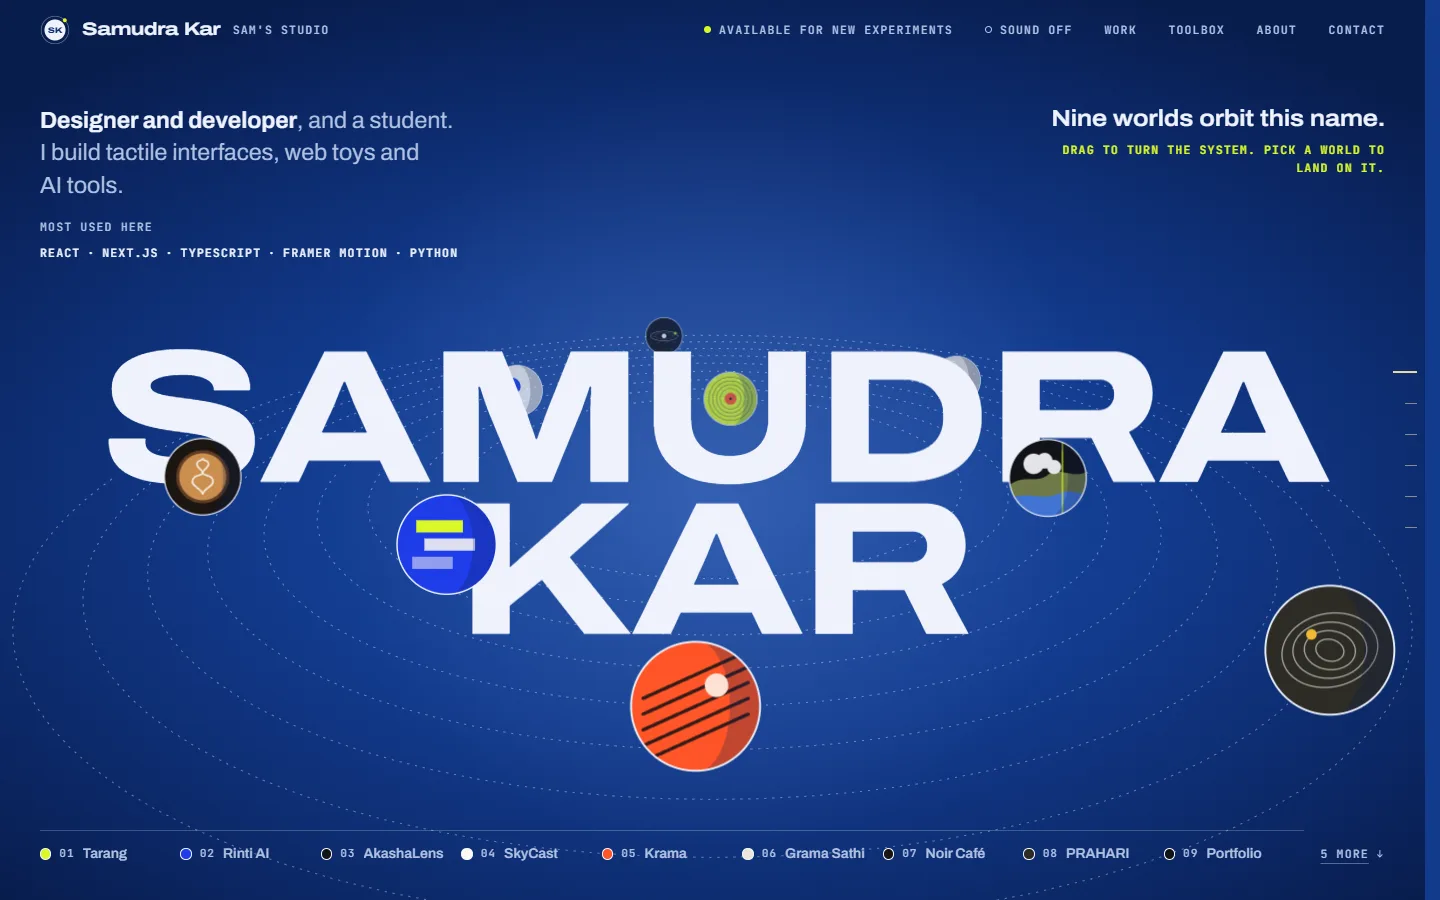
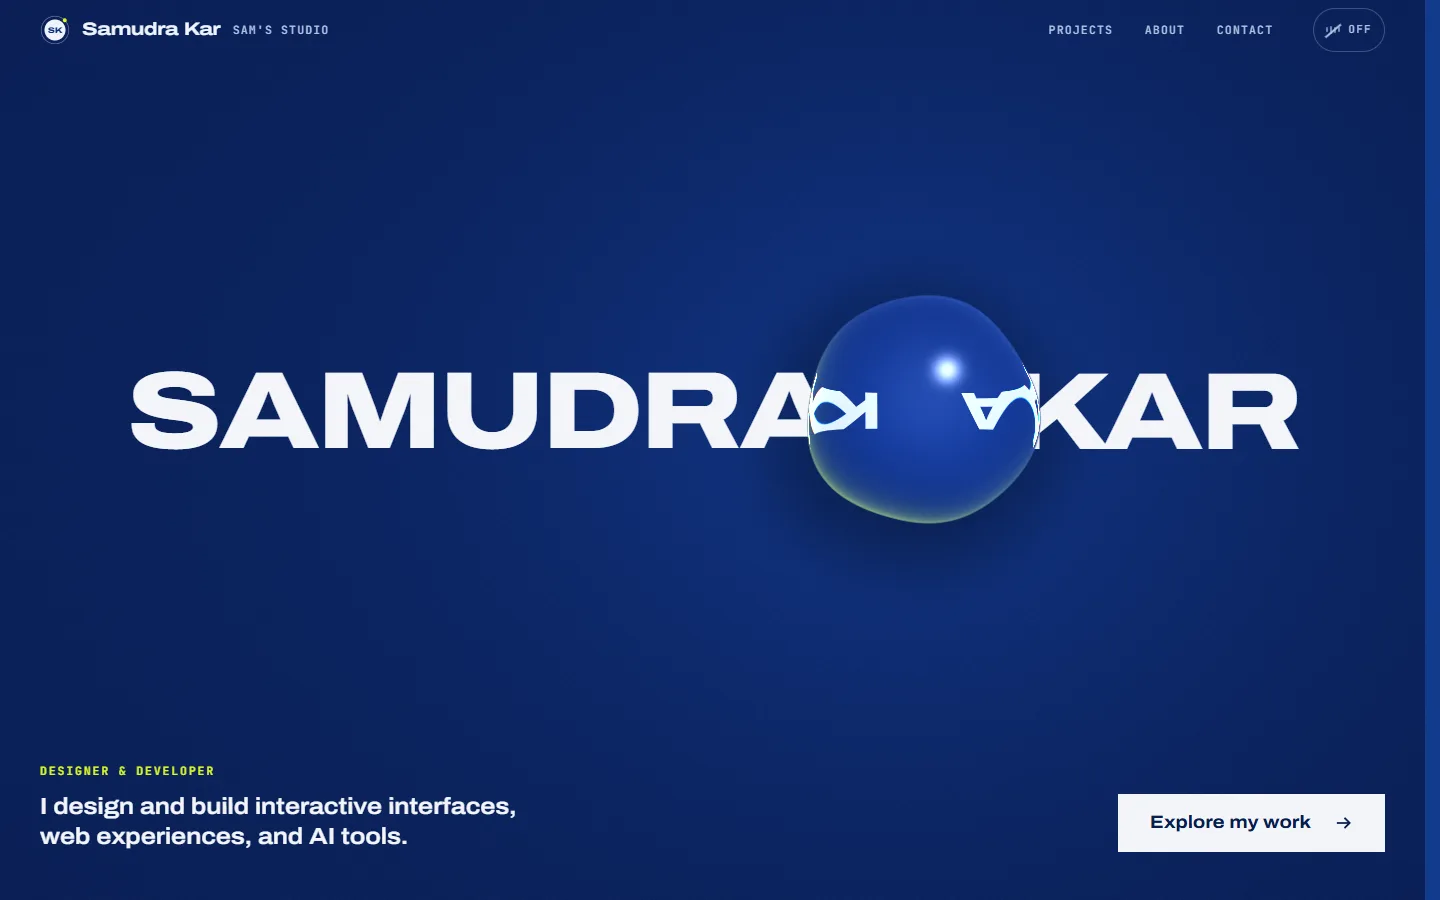
fix(cursor): visible cursor in the viewing room, labels stay on screen
- The projects viewing room is a modal <dialog> in the top layer, above
  the custom arrow, so with the system cursor hidden there was no cursor
  at all; the arrow now steps aside and the real cursor returns
- The cursor readout flips to the other side near the right and bottom
  edges (it was cut off on the new sound control)
- The homepage drop shows a DRAG readout
- Projects: closing the viewing room right after opening it could name
  two elements ex-focus (the router applied the open's URL write late and
  the URL sync reopened it); follow only back/forward, settle on a timer
- README: new homepage, tour and screenshots; cursor section updated

diff --git a/src/pages/Projects.tsx b/src/pages/Projects.tsx
@@ -44,14 +44,19 @@ export default function Projects() {
   const [sel, setSel] = useState<string | null>(urlSel);
   const [room, setRoomState] = useState<Kind | null>(kind);
   const [viewState, setViewState] = useState(view);
-  // when the URL changes from outside (back/forward, a pasted link), follow it
-  const [seen, setSeen] = useState({ urlSel, kind, view });
-  if (seen.urlSel !== urlSel || seen.kind !== kind || seen.view !== view) {
-    setSeen({ urlSel, kind, view });
-    setSel(urlSel);
-    setRoomState(kind);
-    setViewState(view);
-  }
+  // The page writes its own state into the URL, and the router applies those writes later, at low
+  // priority, so the URL is not a reliable mirror while a transition runs. A shared link mounts the
+  // page fresh (and is read above); the only other outside change is back/forward, so follow that.
+  useEffect(() => {
+    const onPop = () => {
+      const q = new URLSearchParams(window.location.search);
+      setSel(q.get('p'));
+      setRoomState((q.get('room') as Kind | null) ?? null);
+      setViewState(q.get('view') === 'index' ? 'index' : 'wall');
+    };
+    window.addEventListener('popstate', onPop);
+    return () => window.removeEventListener('popstate', onPop);
+  }, []);
   const [live, setLive] = useState<string | null>(null);
   const dlgRef = useRef<HTMLDialogElement>(null);
 
@@ -110,14 +115,19 @@ export default function Projects() {
       const art = artOf(slug);
       if (art) art.style.viewTransitionName = 'ex-focus';
     });
+    let settled = false;
     const settle = () => {
+      if (settled) return;
+      settled = true;
       const art = artOf(slug);
       if (art) art.style.viewTransitionName = '';
       // after the dialog has handed focus back (to whatever opened it first), put it on the print you were last looking at
       requestAnimationFrame(() => document.querySelector<HTMLElement>(`[data-tile="${slug}"]`)?.focus({ preventScroll: true }));
     };
-    if (vt) vt.finished.then(settle, settle);
-    else settle();
+    if (vt) {
+      vt.finished.then(settle, settle);
+      window.setTimeout(settle, 900); // never let a stalled transition hold the print's name or block the next open
+    } else settle();
     patch((n) => n.delete('p'));
   };
   const step = (dir: 1 | -1) => {

diff --git a/src/components/core/Cursor.tsx b/src/components/core/Cursor.tsx
@@ -47,6 +47,11 @@ function CursorTool() {
       if (e.pointerType === 'touch') return;
       html.classList.add('has-cursor');
       root.dataset.hidden = 'false';
+      // near the right or bottom edge the readout moves to the other side of the tip, so it is never cut off
+      const fx = e.clientX > window.innerWidth - 150 ? 'true' : 'false';
+      const fy = e.clientY > window.innerHeight - 64 ? 'true' : 'false';
+      if (root.dataset.flipX !== fx) root.dataset.flipX = fx;
+      if (root.dataset.flipY !== fy) root.dataset.flipY = fy;
     };
     const onOver = (e: PointerEvent) => {
       const target = e.target as Element | null;
@@ -77,7 +82,7 @@ function CursorTool() {
   }, []);
 
   return (
-    <div ref={rootRef} className="cursor" data-kind="default" data-hidden="true" data-down="false" aria-hidden="true">
+    <div ref={rootRef} className="cursor" data-kind="default" data-hidden="true" data-down="false" data-flip-x="false" data-flip-y="false" aria-hidden="true">
       <motion.div className="cursor-pos" style={{ x: pointer.x, y: pointer.y }}>
         <svg className="cursor-arrow" width="26" height="30" viewBox="0 0 26 30">
           <path className="cursor-shadow" d="M2 2 L2 24 L8 18.5 L12.5 28 L17 26 L12.6 16.8 L21 16.5 Z" />

diff --git a/src/components/core/cursor.css b/src/components/core/cursor.css
@@ -25,6 +25,14 @@
 }
 .cursor-label:not(:empty) { opacity: 1; transform: none; }
 .cursor[data-kind='cta'] .cursor-label { background: var(--lime); color: var(--cy-950); border-color: var(--lime); }
+.cursor[data-flip-x='true'] .cursor-label { left: auto; right: 6px; transform-origin: 100% 0; }
+.cursor[data-flip-y='true'] .cursor-label { top: auto; bottom: 6px; }
+
+/* a modal <dialog> sits in the browser's top layer, above anything a page can draw (including this arrow),
+   so while one is open the real system cursor comes back, the same way it does for Kage */
+html.has-cursor:has(dialog[open]) * { cursor: auto !important; }
+html.has-cursor:has(dialog[open]) :is(a[href], button, [role='button'], summary, label) { cursor: pointer !important; }
+html:has(dialog[open]) .cursor-pos { display: none; }
 
 @media (prefers-reduced-motion: reduce) {
   .cursor-arrow, .cursor-label { transition: none; }

diff --git a/src/components/home/GlassHero.tsx b/src/components/home/GlassHero.tsx
@@ -411,7 +411,7 @@ export default function GlassHero() {
 
   const [first, last] = config.name.split(' ');
   return (
-    <section ref={rootRef} className="gh" data-gl={gl} aria-labelledby="gh-name">
+    <section ref={rootRef} className="gh" data-gl={gl} aria-labelledby="gh-name" data-cursor={gl === 'on' ? 'drag' : undefined} data-cursor-label="DRAG">
       <div ref={wrapRef} className="gh-canvas" aria-hidden="true" />
       <div className="gh-stage">
         <h1 id="gh-name" ref={nameRef} className="gh-name">

diff --git a/README.md b/README.md
@@ -1,19 +1,19 @@
 <div align="center">
 
-<img src="docs/screenshots/hero.webp" alt="The homepage: SAMUDRA KAR at the centre of nine tilted rings, with project planets passing in front of and behind the name" width="100%" />
+<img src="docs/screenshots/hero.webp" alt="The homepage: SAMUDRA KAR on deep blue, with one drop of liquid glass resting between the words and showing the name upside down" width="100%" />
 
 <br />
 <br />
 
 # Samudra Kar, portfolio
 
-**A small universe around a name: nine projects orbit SAMUDRA KAR, and each one is its own world you can land on.**
+**One name, one drop of glass: a single-screen homepage, then an exhibition of the real work.**
 
-Nine interactive project worlds · five more projects drawn as bodies on the same instrument · a toolbox built from the projects themselves · a hidden door
+A WebGL glass drop you can pick up · 16 projects as live specimens · interactive case-study worlds · an optional, generated soundtrack · a hidden door
 
 <br />
 
-[**Live site**](https://sam-sportfolio.vercel.app) &nbsp;·&nbsp; [The tour](#the-tour) &nbsp;·&nbsp; [The worlds](#the-worlds) &nbsp;·&nbsp; [How it works](#how-it-works) &nbsp;·&nbsp; [Run it](#run-it-locally) &nbsp;·&nbsp; [Design system](#design-system)
+[**Live site**](https://sam-sportfolio.vercel.app) &nbsp;·&nbsp; [The tour](#the-tour) &nbsp;·&nbsp; [Pages](#pages) &nbsp;·&nbsp; [Sound](#sound) &nbsp;·&nbsp; [Run it](#run-it-locally) &nbsp;·&nbsp; [Design system](#design-system)
 
 <br />
 
@@ -31,76 +31,43 @@ Nine interactive project worlds · five more projects drawn as bodies on the sam
 
 ## What this is
 
-The portfolio is one working instrument: a **cyanotype orrery** with the studio (the SK monogram) at the centre and the projects on its rings. Cyanotype is the old sun-print process: Prussian blue where light hit the paper, white where it did not. The site is printed on the blue; the quiet passages (About, the case-study write-ups) sit on the white.
-
-The rules: white hairline linework, dashed for available and solid for committed, every project an enamel disc in its own colour, one typeface (Archivo) across its width axis, and hierarchy carried by type size, not by boxes. Nothing moves just because it can.
+The portfolio of Samudra Kar, a designer and developer who builds interactive interfaces, web experiences and AI tools. The look is cyanotype: Prussian blue, paper white, and one acid-lime signal colour. One typeface (Archivo) across its width axis carries the hierarchy, and every effect has to earn its place.
 
 ## The tour
 
-### 1. The homepage: a small universe around the name
+### 1. Home: one drop of glass on one name
 
-The first screen is the experience, not a header. **SAMUDRA KAR** sits at the centre of a system of nine tilted rings drawn in perspective: the near half of every ring passes *in front of* the name and the far half behind it, so the identity sits inside the scene. Each featured project is a planet whose surface is drawn from what the project is (record grooves for Tarang, stacked sources for Rinti AI, terrain under cloud for AkashaLens, a latte rosetta for Noir Café, the contours of a mine for PRAHARI, and so on).
-
-- **It is alive but calm.** The rings turn slowly, inner worlds faster than outer ones (angular speed falls off with ring size). A fast scroll makes them race briefly.
-- **Drag anywhere to turn the system**, with momentum when you let go. A click on empty space returns to the overview.
-- **Pick a world** (click its planet, or use the rail of named buttons along the bottom). The planet flies out of its orbit to the focus slot, the name and the other worlds recede, and a panel opens with its category, an accurate description, the stack and its real links: enter its chapter, the case study, GitHub, and the live demo where one is verified. Previous and Next walk the worlds; Escape or "All worlds" closes.
-- **Keyboard:** the rail is ordinary buttons; arrow keys walk the worlds, Escape closes.
-- **Entrance:** once per session the name prints in and the system forms out of the centre in under a second. Any key, wheel or touch finishes it at once; reduced motion skips it.
-- **Scrolling on** flattens the rings toward edge-on as the hero leaves, and the index of worlds follows. Scrolling is never hijacked.
-
-On phones the same universe is recomposed for a thumb: the scene sits on top, the worlds become a swipeable row of named buttons, and the open world's panel follows below, so nothing depends on hitting a small planet.
+One screen, no scrolling. The name is set large on deep blue; a single drop of liquid glass rests on it and really refracts it, the way a drop of water does (the name appears inside it widened and upside down). Hover and it leans toward you; press and drag, with a mouse or a finger, to carry it; let go and it springs home with a damped wobble. Under it: *Designer & Developer*, one sentence, and **Explore my work**.
 
 <table>
   <tr>
-    <td width="70%"><img src="docs/screenshots/hero-outro.webp" alt="A world in focus: SkyCast's planet in the focus slot with its panel of description, stack and links" /></td>
-    <td width="30%"><img src="docs/screenshots/mobile-hero.webp" alt="The homepage on a phone: the universe on top, a row of world buttons below" /></td>
-  </tr>
-  <tr>
-    <td><sub>A world in focus: its planet takes the slot, its panel opens with the real links.</sub></td>
-    <td><sub>On a phone.</sub></td>
+    <td width="68%"><img src="docs/screenshots/hero.webp" alt="Homepage on desktop" /></td>
+    <td width="32%"><img src="docs/screenshots/mobile-hero.webp" alt="Homepage on a phone: the name stacked, the drop between the lines" /></td>
   </tr>
 </table>
 
-### 2. Worlds: an index, then nine chapters that cover each other
+### 2. Projects: the exhibition
 
-The index lists the featured worlds; hovering a row floods it with that world's colour and turns the planet plate beside it. Then each project is a pinned, full-height chapter that slides up over the previous one, opening with its own mask. A small engraving of the orrery in the corner shows which ring you are on.
+All 16 projects that earned a place (see `docs/github-project-audit.md`) hang as live SVG specimens drawn from what each one does. Filter by kind, switch between the wall and a fast index, and pick a print to lift it into a full-screen viewing room with its real links. The filter and the open print live in the URL, so links can be shared.
 
 <table>
   <tr>
-    <td width="50%"><img src="docs/screenshots/work-index.webp" alt="The index of worlds with Tarang's lime planet plate" /></td>
-    <td width="50%"><img src="docs/screenshots/chapter.webp" alt="The Tarang chapter: title, facts and the interactive scene" /></td>
+    <td width="50%"><img src="docs/screenshots/projects.webp" alt="The projects wall" /></td>
+    <td width="50%"><img src="docs/screenshots/projects-room.webp" alt="The viewing room for Noir Café" /></td>
   </tr>
 </table>
 
-### 3. More work: everything else on GitHub that earned a place
+### 3. Case studies and worlds
 
-Five more projects (hackathon builds, an interface exploration, a live café site, team coursework) and two earlier sites. They have no interactive world yet, so each is drawn as a body on its own ring: a plate from the same instrument, never a fake screenshot. Team work always names the team and his role. The full repository audit behind this list is in [`docs/github-project-audit.md`](docs/github-project-audit.md).
+The nine featured projects have case-study pages (`/work/:slug`), each with its own interactive world.
 
-<img src="docs/screenshots/more-work.webp" alt="More work: Niriksh AI and The Waffle House as lead entries with drawn plates" width="100%" />
+### 4. About and Contact
 
-### 4. Toolbox: organised, and it can't lie
+**About** is a contact sheet: seven frames from one roll with a loupe, what is on the bench now, and the toolbox. **Contact** is the last print, at night: Instagram, GitHub and LinkedIn as tall rows over a WebGL field.
 
-Every tool in every project's `tech` list, filed into six groups (Languages, Interface, Motion & 3D, Backend & data, AI & vision, Hardware) and ordered by use. Beside each tool sits one enamel disc per project that uses it, so "how much" is the real list of projects, not a skill bar. It works both ways: point at a tool to light up its projects, or at a project to light up the tools it was built with; click to pin. Anything a project lists that no group names lands in "Other" instead of disappearing. It is computed from the project data, so it can only show what the work actually used.
+### 5. Kage
 
-<img src="docs/screenshots/toolbox.webp" alt="The Toolbox: six groups of tools, each with a row of project discs, and the project legend below" width="100%" />
-
-### 5. About: a desk on the white sheet
-
-On desktop the stage pins and the objects land one by one as you scroll: an ID card printed in cyanotype blue, index cards for each facet (drag them anywhere), a sun print, a cassette (Now Playing), a lime note (Currently Building) and the studio seal. Somewhere on the desk is a door.
-
-<img src="docs/screenshots/about.webp" alt="The About desk: designer developer student, the ID card, a cyanotype print and facet cards" width="100%" />
-
-### 6. Contact: the deep end of the print
-
-Three big rows (**Instagram, GitHub, LinkedIn**) on night blue. Hovering a row sweeps a white plate across it and rolls its letters, and **an enamel body behind it changes colour and shape** to match the link. Links come from `contact` in [`src/data/config.ts`](src/data/config.ts); a missing one simply isn't shown.
-
-<img src="docs/screenshots/contact.webp" alt="The contact scene: three social rows and a lime enamel body on hairline orbits" width="100%" />
-
-### 7. Kage: one hidden door
-
-Somewhere on the About desk is a faint mark. (Or type `kage` anywhere.) Open it and you're in **Kage**, a full scroll-storytelling scene. Escape or the Back button returns you to exactly where you were.
-
-<img src="docs/screenshots/kage.jpg" alt="The Kage scene: a moonlit temple gate with a Back to Samudra button" width="100%" />
+Somewhere on the About page there is a hidden door.
 
 ## Pages
 
@@ -188,19 +155,9 @@ Every featured world and every "More work" project has a page at `/work/:slug`: 
 
 ## On small screens
 
-Mobile isn't a scaled desktop. Below 1000px (or with `prefers-reduced-motion`) the pins and chapter overlaps are dropped: scenes stack, scroll still drives each scene. Below 600px the orrery becomes a numbered diagram and its names move to the readout and the index.
+Every page is designed for phones, not scaled down. The homepage fits one screen on any phone (it uses the dynamic viewport height), the name stacks, and the drop rests between the lines. Touch targets are at least 44px, there is no horizontal scroll, and the WebGL renders at a capped pixel ratio on phones.
 
-- **No horizontal scroll** at any phone width; checked at 390px and 320px.
-- **Touch targets** of at least 44px, including small text links; on phones the worlds are a row of full-size buttons.
-- **Cheaper shaders:** the canvases render at about 1x on phones, and every per-frame loop pauses offscreen.
-
-<table>
-  <tr>
-    <td width="33%"><img src="docs/screenshots/mobile-hero.webp" alt="Mobile hero" /></td>
-    <td width="33%"><img src="docs/screenshots/mobile-more.webp" alt="Mobile More work" /></td>
-    <td width="33%"><img src="docs/screenshots/mobile-contact.webp" alt="Mobile contact" /></td>
-  </tr>
-</table>
+<img src="docs/screenshots/mobile-hero.webp" alt="Homepage on a phone" width="320" />
 
 ## How it works
 
@@ -213,7 +170,7 @@ Motion is split on purpose. **GSAP owns page-level choreography and Framer Motio
 | Smooth scroll and scroll velocity | **Lenis**, driven by GSAP's ticker |
 | Pinned scenes, scrubbed timelines, masks, reveals | **GSAP + ScrollTrigger** |
 | Cursor, hover and drag values, per-scene parallax | **Framer Motion** motion values |
-| The homepage universe | Two canvases (far and near halves of the rings) around the name, planets as real buttons moved by transform only; one ticker callback that stops drawing when nothing moves or the hero is offscreen |
+| The homepage drop | One raw WebGL fragment shader (ball-lens refraction of a texture of the name), a spring for the drop's position, and one `requestAnimationFrame` loop that pauses when the tab is hidden |
 | Shader worlds and the Contact field | **Raw WebGL** (`ShaderCanvas`), no Three.js |
 | Every per-frame effect | **One shared `gsap.ticker`**: a single `requestAnimationFrame` for the whole site |
 
@@ -221,13 +178,13 @@ Easing is two curves from `src/styles/tokens.css`: a strong ease-out (`cubic-bez
 
 ### The scroll system (desktop)
 
-- The homepage is a single 100svh scene and scrolling is never hijacked. As it leaves, the rings flatten toward edge-on and the copy fades.
+- The homepage is a single screen with nothing to scroll; no page hijacks scrolling.
 - Each project chapter is a sticky stage inside a taller box. The **next chapter has a negative top margin**, so it slides up over the pinned one. The covered chapter scales back and is marked `inert` so keyboard focus can't land on something you can't see.
 - Each chapter hands its world a `progress` value (0 to 1 across its whole scroll range). Worlds never read scroll or the pointer directly.
 
 ### The cursor
 
-A white arrow with a blue hairline that reads on both the blue and the white sheet. It turns lime and tips toward anything you can use, and shows a small readout chip (ENTER, OPEN, TURN, VISIT) set by `data-cursor` and `data-cursor-label` attributes. It only runs on `(hover: hover) and (pointer: fine)` devices.
+On mouse and trackpad devices the system cursor is replaced by a white arrow with a blue hairline that reads on both the blue and the white sheet. It turns lime and tips toward anything you can use, and shows a small readout (VIEW, DRAG, VISIT, SOUND) set by `data-cursor` and `data-cursor-label`. The readout moves to the other side of the tip near the right and bottom edges, so it is never cut off. While a modal `<dialog>` is open (the projects viewing room), the arrow steps aside and the real system cursor returns, because the dialog sits in the browser's top layer above anything a page can draw. Touch devices never get the custom cursor.
 
 ### Typography
 
@@ -239,7 +196,7 @@ Archivo is a variable font with a width axis (62% to 125%) as well as weight. Di
 - **WebGL is disciplined:** DPR is capped (lower on compact screens), context loss is handled, and the context is released on unmount.
 - **Code splitting:** each world, the case-study page and Kage are separate lazy chunks.
 - **Fonts are self-hosted** variable fonts (Fontsource); the Devanagari face loads only when the Grama Sathi world mounts.
-- **Reduced motion** disables Lenis, pins, scrubs, the universe's drift and entrance, animated shaders and the page-transition curtain; chapters keep their two-column layout.
+- **Reduced motion** disables Lenis, pins, scrubs, the homepage drop's breathing and entrance (it becomes a still lens), animated shaders and the page-transition curtain; chapters keep their two-column layout.
 - Semantic landmarks, one `h1`, a skip link, visible lime focus rings, keyboard-operable controls, and accessible names that start with the visible text.
 - Lighthouse 12 on the production build (`npm run build` + `vite preview`, home page, first visit with the entrance, 2026-10-20, two runs each): desktop 93 to 97 performance, 100 accessibility, 100 best practices, 100 SEO, CLS 0; mobile (simulated 4x CPU throttling) 63 to 69 performance, 100 / 100 / 100, CLS 0.
 
@@ -331,7 +288,7 @@ Each project has a `tier`:
 
 | Tier | Where it appears |
 | :-- | :-- |
-| `featured` | A planet in the homepage universe, the index of worlds, a full chapter and a case study. Needs a `world` (a scene in `src/components/work/worlds/`, registered in its `index.ts`). |
+| `featured` | A case study with its own interactive world, and a larger print on the projects wall. Needs a `world` (a scene in `src/components/work/worlds/`, registered in its `index.ts`). |
 | `more` | "More work", with a drawn plate and a case study. Set `lead: true` to give it more room. |
 | `earlier` | A short line under "More work". |
 
@@ -358,7 +315,7 @@ The scene is a lazy chunk, so visitors who never open it never download it.
 │   ├── data/                config.ts, projects.ts (content), stress.ts (dev-only worst-case data)
 │   ├── components/
 │   │   ├── core/            SmoothScroll, Cursor, Monogram, Magnetic, PageTransition, ProximityText, Split, ShaderCanvas, Loader
-│   │   ├── home/            the homepage universe and the planet surfaces
+│   │   ├── home/            the homepage glass drop (GlassHero)
 │   │   ├── work/            index, chapters, RingLocator, SceneFrame, worlds/ (one file per project)
 │   │   ├── more/            More work and the drawn project plates
 │   │   ├── stack/           the Toolbox
